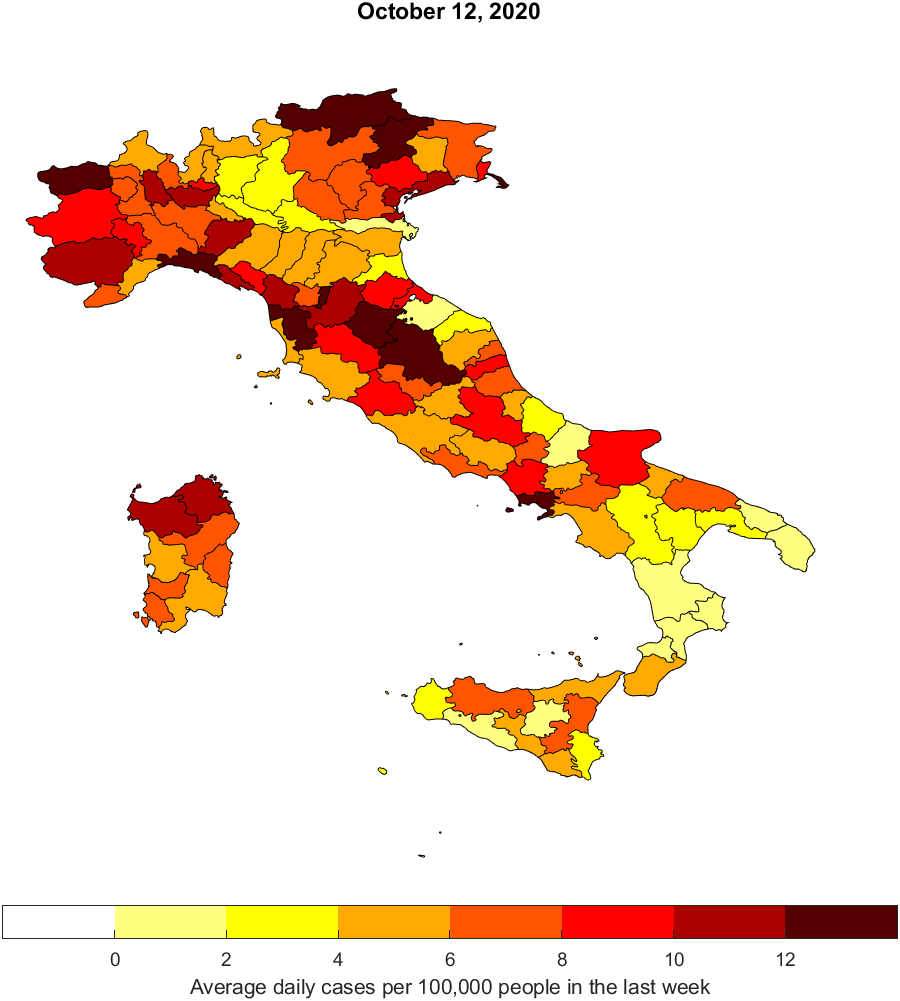
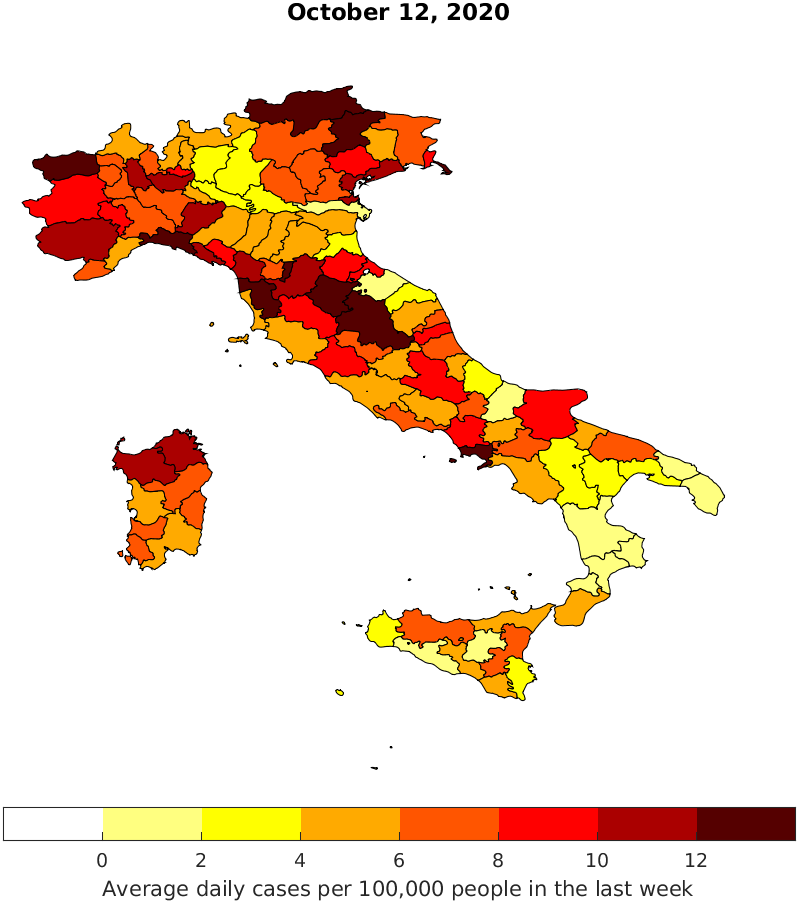
Oct 13

diff --git a/matlab/main_covid_hotspots.m b/matlab/main_covid_hotspots.m
@@ -25,8 +25,8 @@ n_provs = size(prov_names, 1);     % Number of provinces
 % Get date
 
 % first_day_back = datetime('01-07-2020', 'InputFormat', 'dd-MM-yyyy');
-first_day_back = datetime('12-10-2020', 'InputFormat', 'dd-MM-yyyy');
-last_day_back = datetime('12-10-2020', 'InputFormat', 'dd-MM-yyyy');
+first_day_back = datetime('13-10-2020', 'InputFormat', 'dd-MM-yyyy');
+last_day_back = datetime('13-10-2020', 'InputFormat', 'dd-MM-yyyy');
 n_days_back = days(last_day_back - first_day_back);
 for days_back = 0:n_days_back
 
